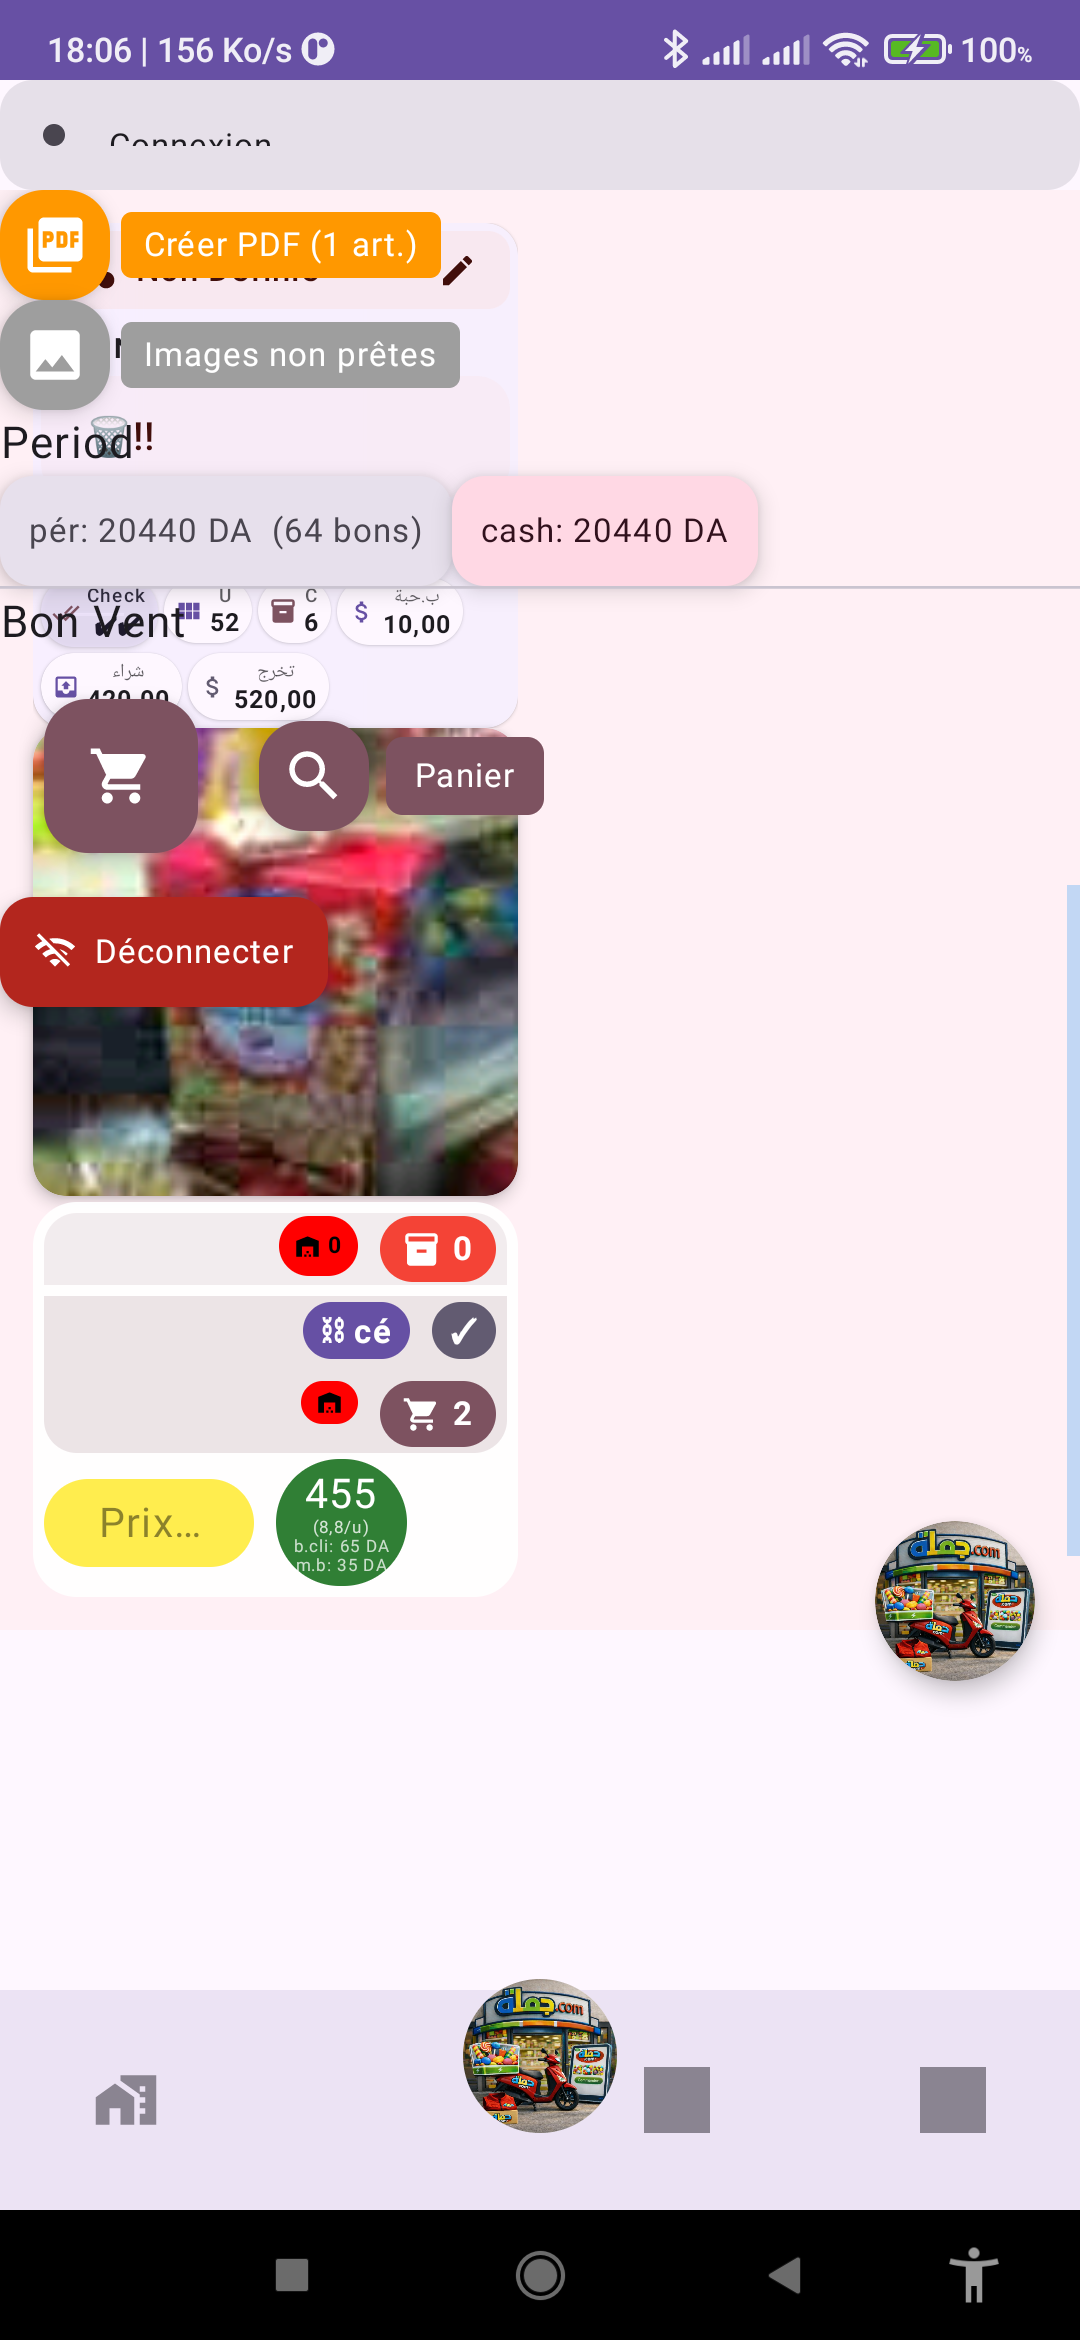
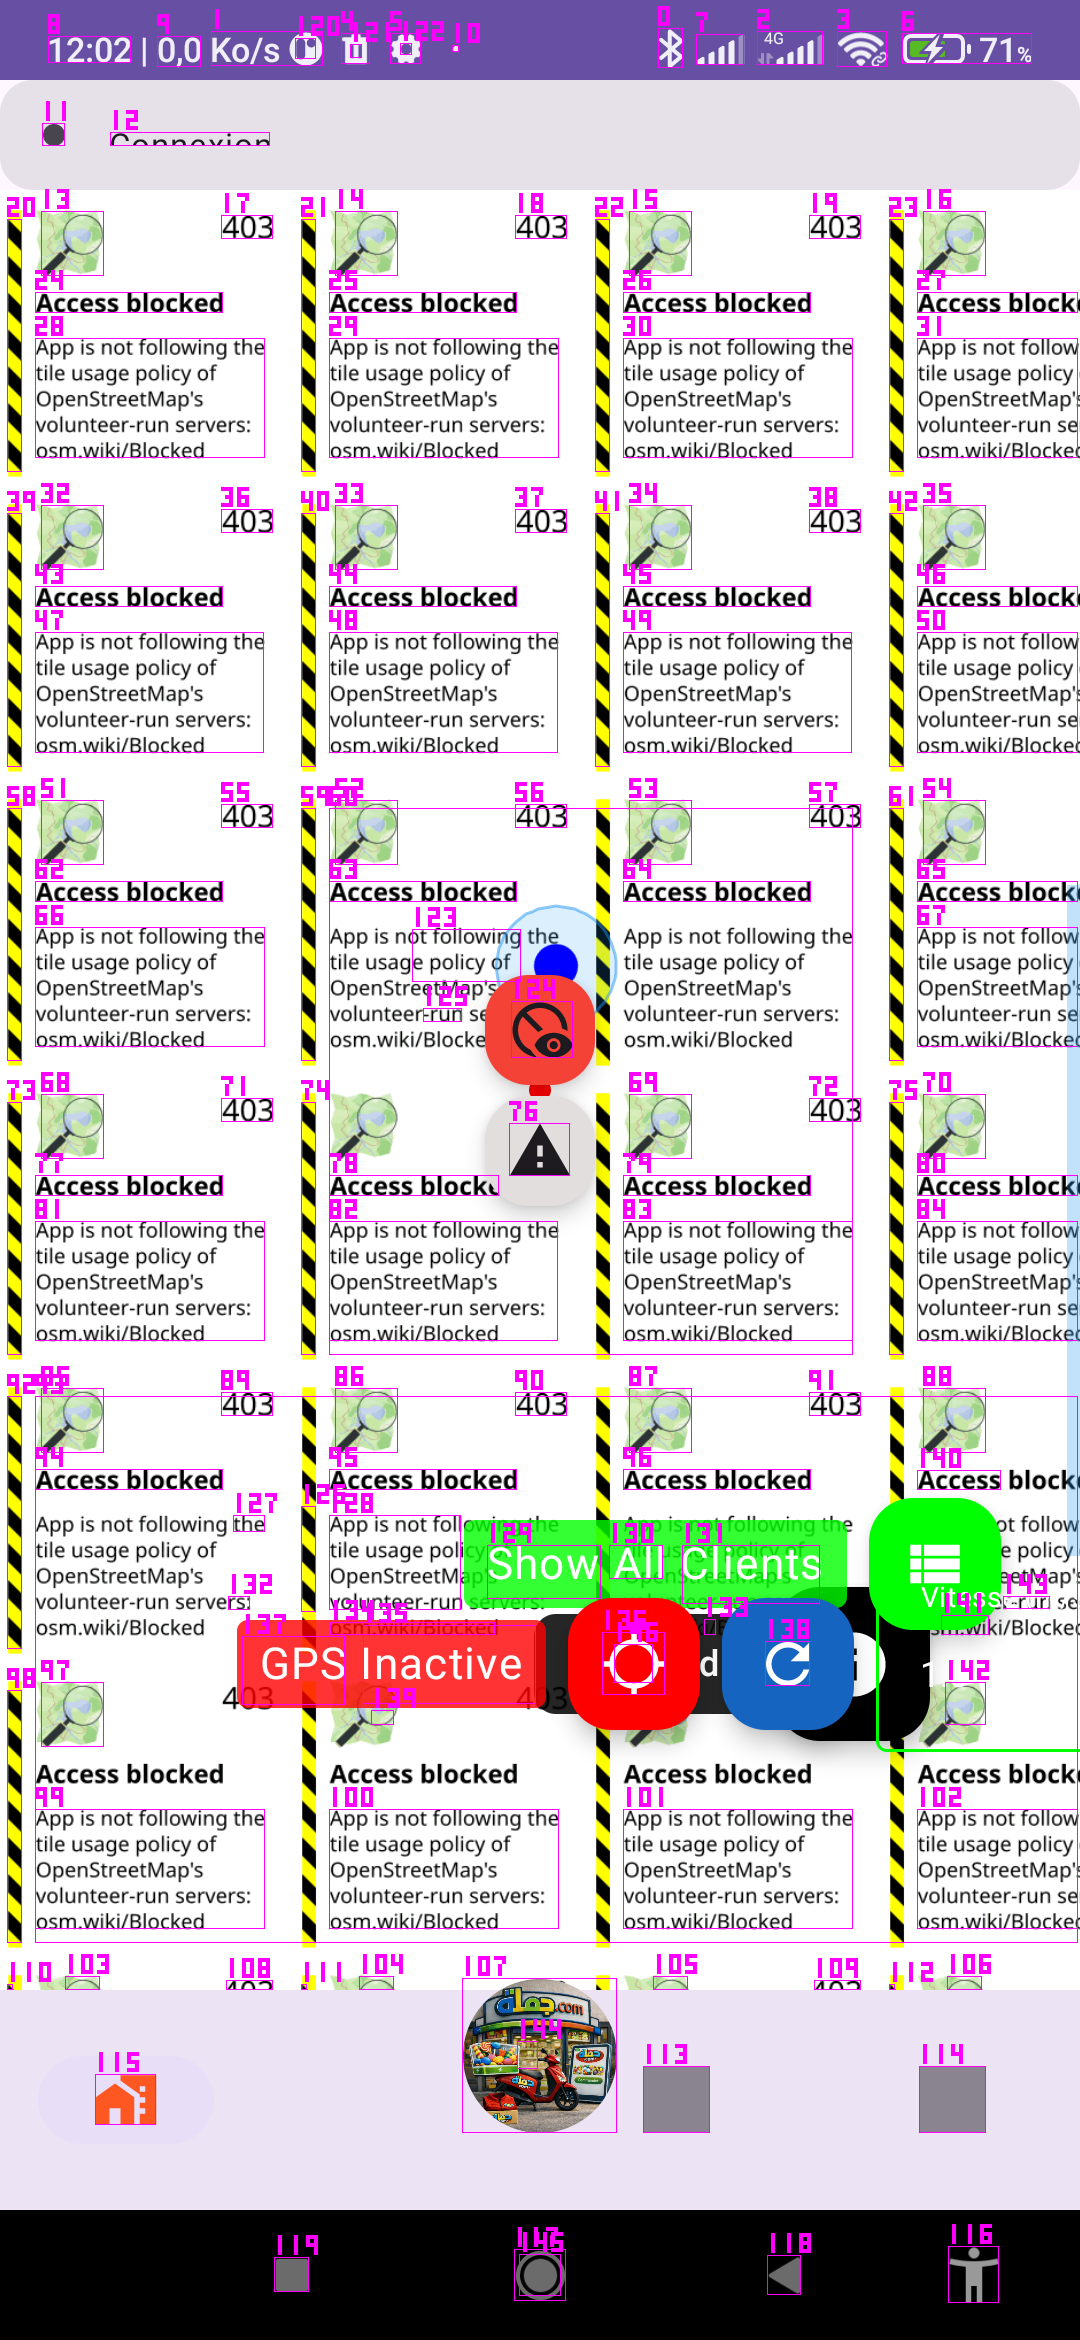
SAVE

diff --git a/app/src/main/java/Application4/App/Fragment/View/ViewS/Views/Image_Displaye.kt b/app/src/main/java/Application4/App/Fragment/View/ViewS/Views/Image_Displaye.kt
@@ -100,7 +100,6 @@ fun Image_Displaye(
                 "${relative_M3CouleurProduitInfos.nomImageFichieSansEtansion}.${relative_M3CouleurProduitInfos.extensionDisponible}"
             File(baseDir, fileName)
         } else {
-            // Fallback: old-proto naming → "<parentBProduitOldID>_<indexCouleurDansAncienProto>.<ext>"
             val oldId    = relative_M3CouleurProduitInfos.parentBProduitOldID
             val colorIdx = relative_M3CouleurProduitInfos.indexCouleurDansAncienProto
             if (oldId > 0) {
@@ -150,10 +149,7 @@ fun Image_Displaye(
             )
 
         if (relative_M3CouleurProduitInfos.il_a_une_video_presentaion) {
-            // ── Vidéo/GIF : expanded vs compact ──────────────────────────────────────
             if (isExpandedProduct && isMainExpandedColor) {
-                // Expanded: lecture vidéo ExoPlayer
-                // ── Lit les dimensions réelles du MP4 de façon synchrone ──
                 val context = LocalContext.current
                 val videoRatio = remember(imageFile) {
                     try {
@@ -162,11 +158,10 @@ fun Image_Displaye(
                             val w = mmr.extractMetadata(MediaMetadataRetriever.METADATA_KEY_VIDEO_WIDTH)?.toFloatOrNull() ?: 9f
                             val h = mmr.extractMetadata(MediaMetadataRetriever.METADATA_KEY_VIDEO_HEIGHT)?.toFloatOrNull() ?: 16f
                             val rotation = mmr.extractMetadata(MediaMetadataRetriever.METADATA_KEY_VIDEO_ROTATION)?.toIntOrNull() ?: 0
-                            // Si rotation 90° ou 270° → inverser w/h
                             if (rotation == 90 || rotation == 270) h / w else w / h
                         }
                     } catch (e: Exception) {
-                        9f / 16f // fallback portrait
+                        9f / 16f
                     }
                 }
                 val exoPlayer = remember(imageFile) {
@@ -192,7 +187,6 @@ fun Image_Displaye(
                     modifier = completeModifier.aspectRatio(videoRatio)
                 )
             } else {
-                // ── Non-playing thumbnail (either compact, or expanded but not main selected color) ──
                 Box(modifier = completeModifier) {
                     GlideImage(
                         model = imageFile,
@@ -205,7 +199,6 @@ fun Image_Displaye(
                     }
 
                     if (isExpandedProduct) {
-                        // Affiche l'icône play au top end petite
                         Box(
                             modifier = Modifier
                                 .align(Alignment.TopEnd)
@@ -221,7 +214,6 @@ fun Image_Displaye(
                             )
                         }
                     } else {
-                        // Compact : grand icône play au centre
                         Box(
                             modifier = Modifier
                                 .align(Alignment.Center)
@@ -239,7 +231,6 @@ fun Image_Displaye(
                 }
             }
         } else {
-            // ── Image statique → Glide uniquement ────────────────────────────
             GlideImage(
                 model = imageFile,
                 contentDescription = relative_M3CouleurProduitInfos.nomCouleurStrSiSonImageDispo
@@ -269,9 +260,7 @@ fun Image_Displaye(
         }
     }
 }
-  //<--
-  //TODO(1): consiz_
-/** Images statiques : animation supprimée, priorité et qualité selon pourcentage. */
+
 private fun RequestBuilder<Drawable>.applyOptimizedImageOptions(
     couleur: M3CouleurProduitInfos,
     qualite: pourcentage
@@ -303,11 +292,9 @@ private fun RequestBuilder<Drawable>.applyOptimizedImageOptions(
     })
     .skipMemoryCache(qualite == pourcentage.min_possible)
 
-/** For animated GIFs in expanded mode: allow looping animation, full quality. */
 private fun RequestBuilder<Drawable>.applyAnimatedGifOptions(
     couleur: M3CouleurProduitInfos
 ) = this
-    // Do NOT call dontAnimate() here — animation must run
     .diskCacheStrategy(DiskCacheStrategy.DATA)
     .priority(Priority.HIGH)
     .signature(ObjectKey("${couleur.keyID}_gif_${couleur.dernierTimeTampsSynchronisationAvecFireBase}"))